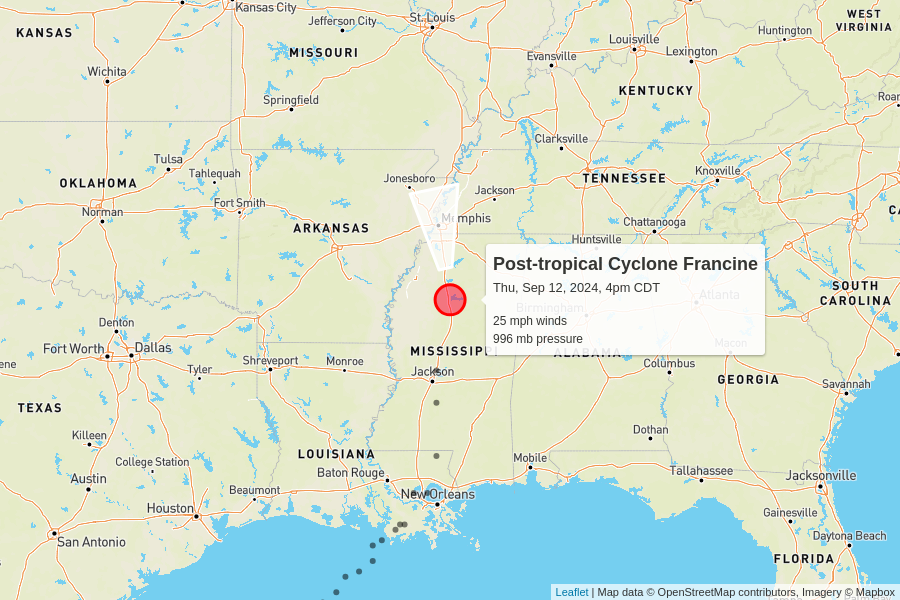
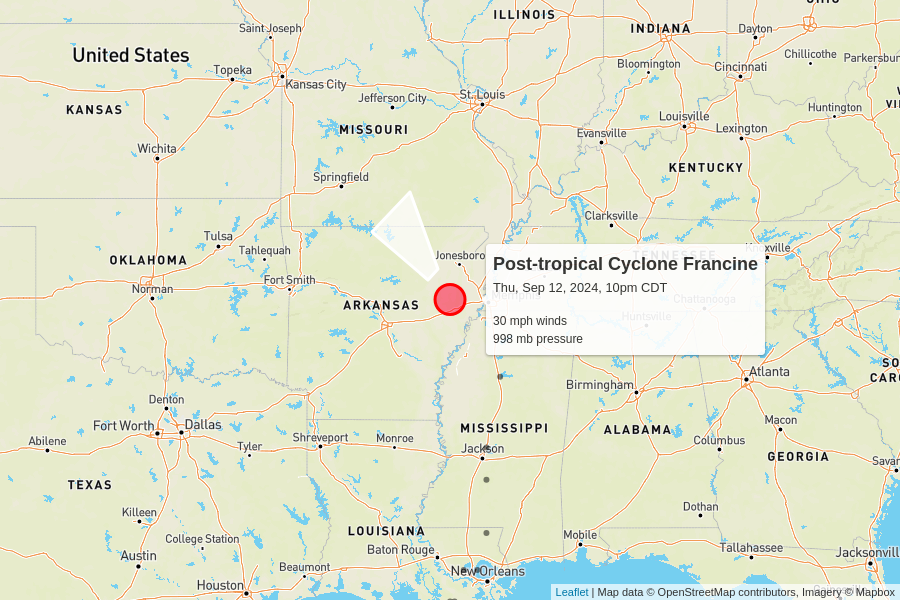
automatic update

diff --git a/docs/index.html b/docs/index.html
@@ -103,52 +103,8 @@
       <tr>
         <td colspan="6" class="storm category-0" >
           <h2>
-            Post-tropical Cyclone Francine
-            <p class="updated">last updated <span data-time>2024-09-12T21:00:00.000Z</span></p>
-          </h2>
-        </td>
-      </tr>
-      
-      <tr>
-        <th class="spacer"></th>
-        <th>wind speed</th>
-        <th>central pressure</th>
-        <th>movement</th>
-        <th>data (CSV)</th>
-        <th>National Hurricane Center</th>
-      </tr>
-      <tr>
-        <td class="spacer"></td>
-        <td>25 mph<br>-10 mph since last update</td>
-        <td>996 mb<br>0 mb since last update</td>
-        <td>
-          9 mph to the north
-          <br/>
-          <span style="display: inline-block; font-size: 1.5em; transform: rotate(350deg);">↑</span>
-        </td>
-        <td><a href="https://raw.githubusercontent.com/mgwalker/atlantic-hurricanes/main/data/csv/AL062024.csv">AL062024.csv</a></td>
-        <td><a href="https://www.nhc.noaa.gov/archive/2024/FRANCINE.shtml?">NHC advisories</a></td>
-      </tr>
-      <tr id="storm_AL062024" >
-        <td class="spacer">
-        <td colspan="5">
-          <figure>
-            <img src="AL062024.png">
-            <figcaption>
-              Map data &copy; <a href="https://www.openstreetmap.org/copyright">OpenStreetMap</a> contributors,
-              Imagery &copy; <a href="https://www.mapbox.com/">Mapbox</a> |
-              <a href="https://www.mapbox.com/map-feedback/" target="_blank">Improve this map</a>
-            </figcaption>
-          </figure>
-        </td>
-      </tr>
-      
-
-      <tr>
-        <td colspan="6" class="storm category-0" >
-          <h2>
             Tropical Depression Seven
-            <p class="updated">last updated <span data-time>2024-09-12T21:00:00.000Z</span></p>
+            <p class="updated">last updated <span data-time>2024-09-13T03:00:00.000Z</span></p>
           </h2>
         </td>
       </tr>
@@ -178,6 +134,50 @@
         <td colspan="5">
           <figure>
             <img src="AL072024.png">
+            <figcaption>
+              Map data &copy; <a href="https://www.openstreetmap.org/copyright">OpenStreetMap</a> contributors,
+              Imagery &copy; <a href="https://www.mapbox.com/">Mapbox</a> |
+              <a href="https://www.mapbox.com/map-feedback/" target="_blank">Improve this map</a>
+            </figcaption>
+          </figure>
+        </td>
+      </tr>
+      
+
+      <tr>
+        <td colspan="6" class="storm category-0" >
+          <h2>
+            Post-tropical Cyclone Francine
+            <p class="updated">last updated <span data-time>2024-09-13T03:00:00.000Z</span></p>
+          </h2>
+        </td>
+      </tr>
+      
+      <tr>
+        <th class="spacer"></th>
+        <th>wind speed</th>
+        <th>central pressure</th>
+        <th>movement</th>
+        <th>data (CSV)</th>
+        <th>National Hurricane Center</th>
+      </tr>
+      <tr>
+        <td class="spacer"></td>
+        <td>30 mph<br>+5 mph since last update</td>
+        <td>998 mb<br>+2 mb since last update</td>
+        <td>
+          6 mph to the northwest
+          <br/>
+          <span style="display: inline-block; font-size: 1.5em; transform: rotate(320deg);">↑</span>
+        </td>
+        <td><a href="https://raw.githubusercontent.com/mgwalker/atlantic-hurricanes/main/data/csv/AL062024.csv">AL062024.csv</a></td>
+        <td><a href="https://www.nhc.noaa.gov/archive/2024/FRANCINE.shtml?">NHC advisories</a></td>
+      </tr>
+      <tr id="storm_AL062024" >
+        <td class="spacer">
+        <td colspan="5">
+          <figure>
+            <img src="AL062024.png">
             <figcaption>
               Map data &copy; <a href="https://www.openstreetmap.org/copyright">OpenStreetMap</a> contributors,
               Imagery &copy; <a href="https://www.mapbox.com/">Mapbox</a> |
